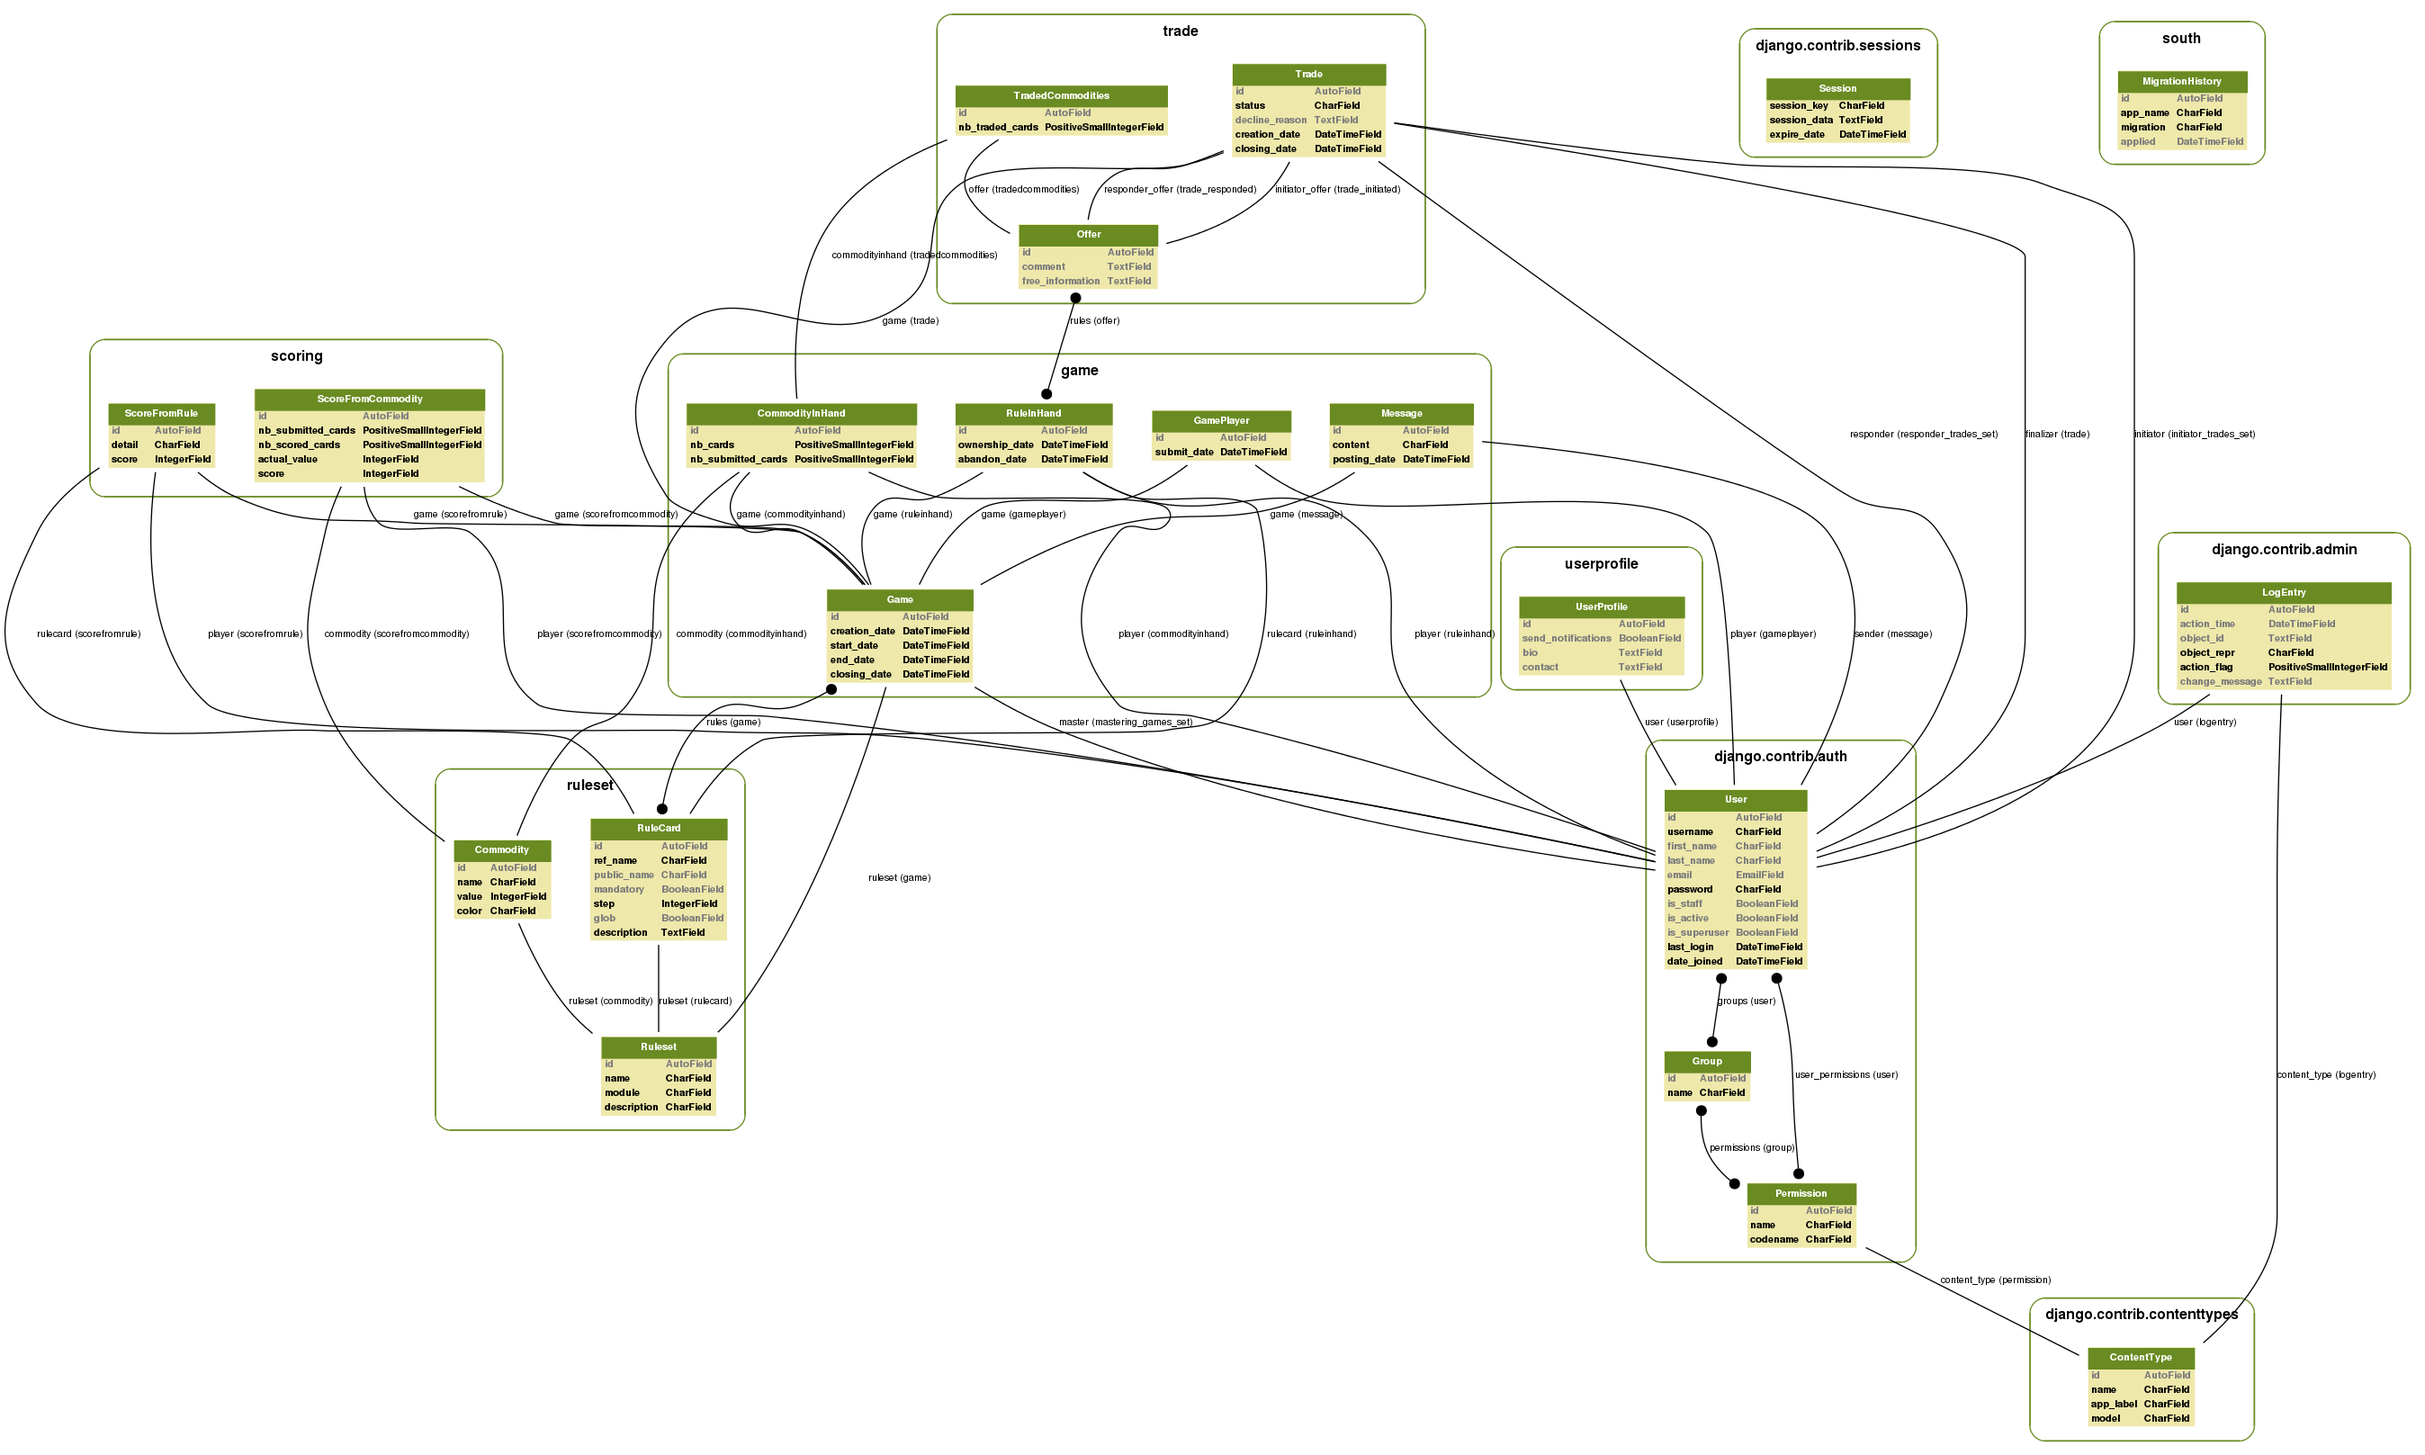
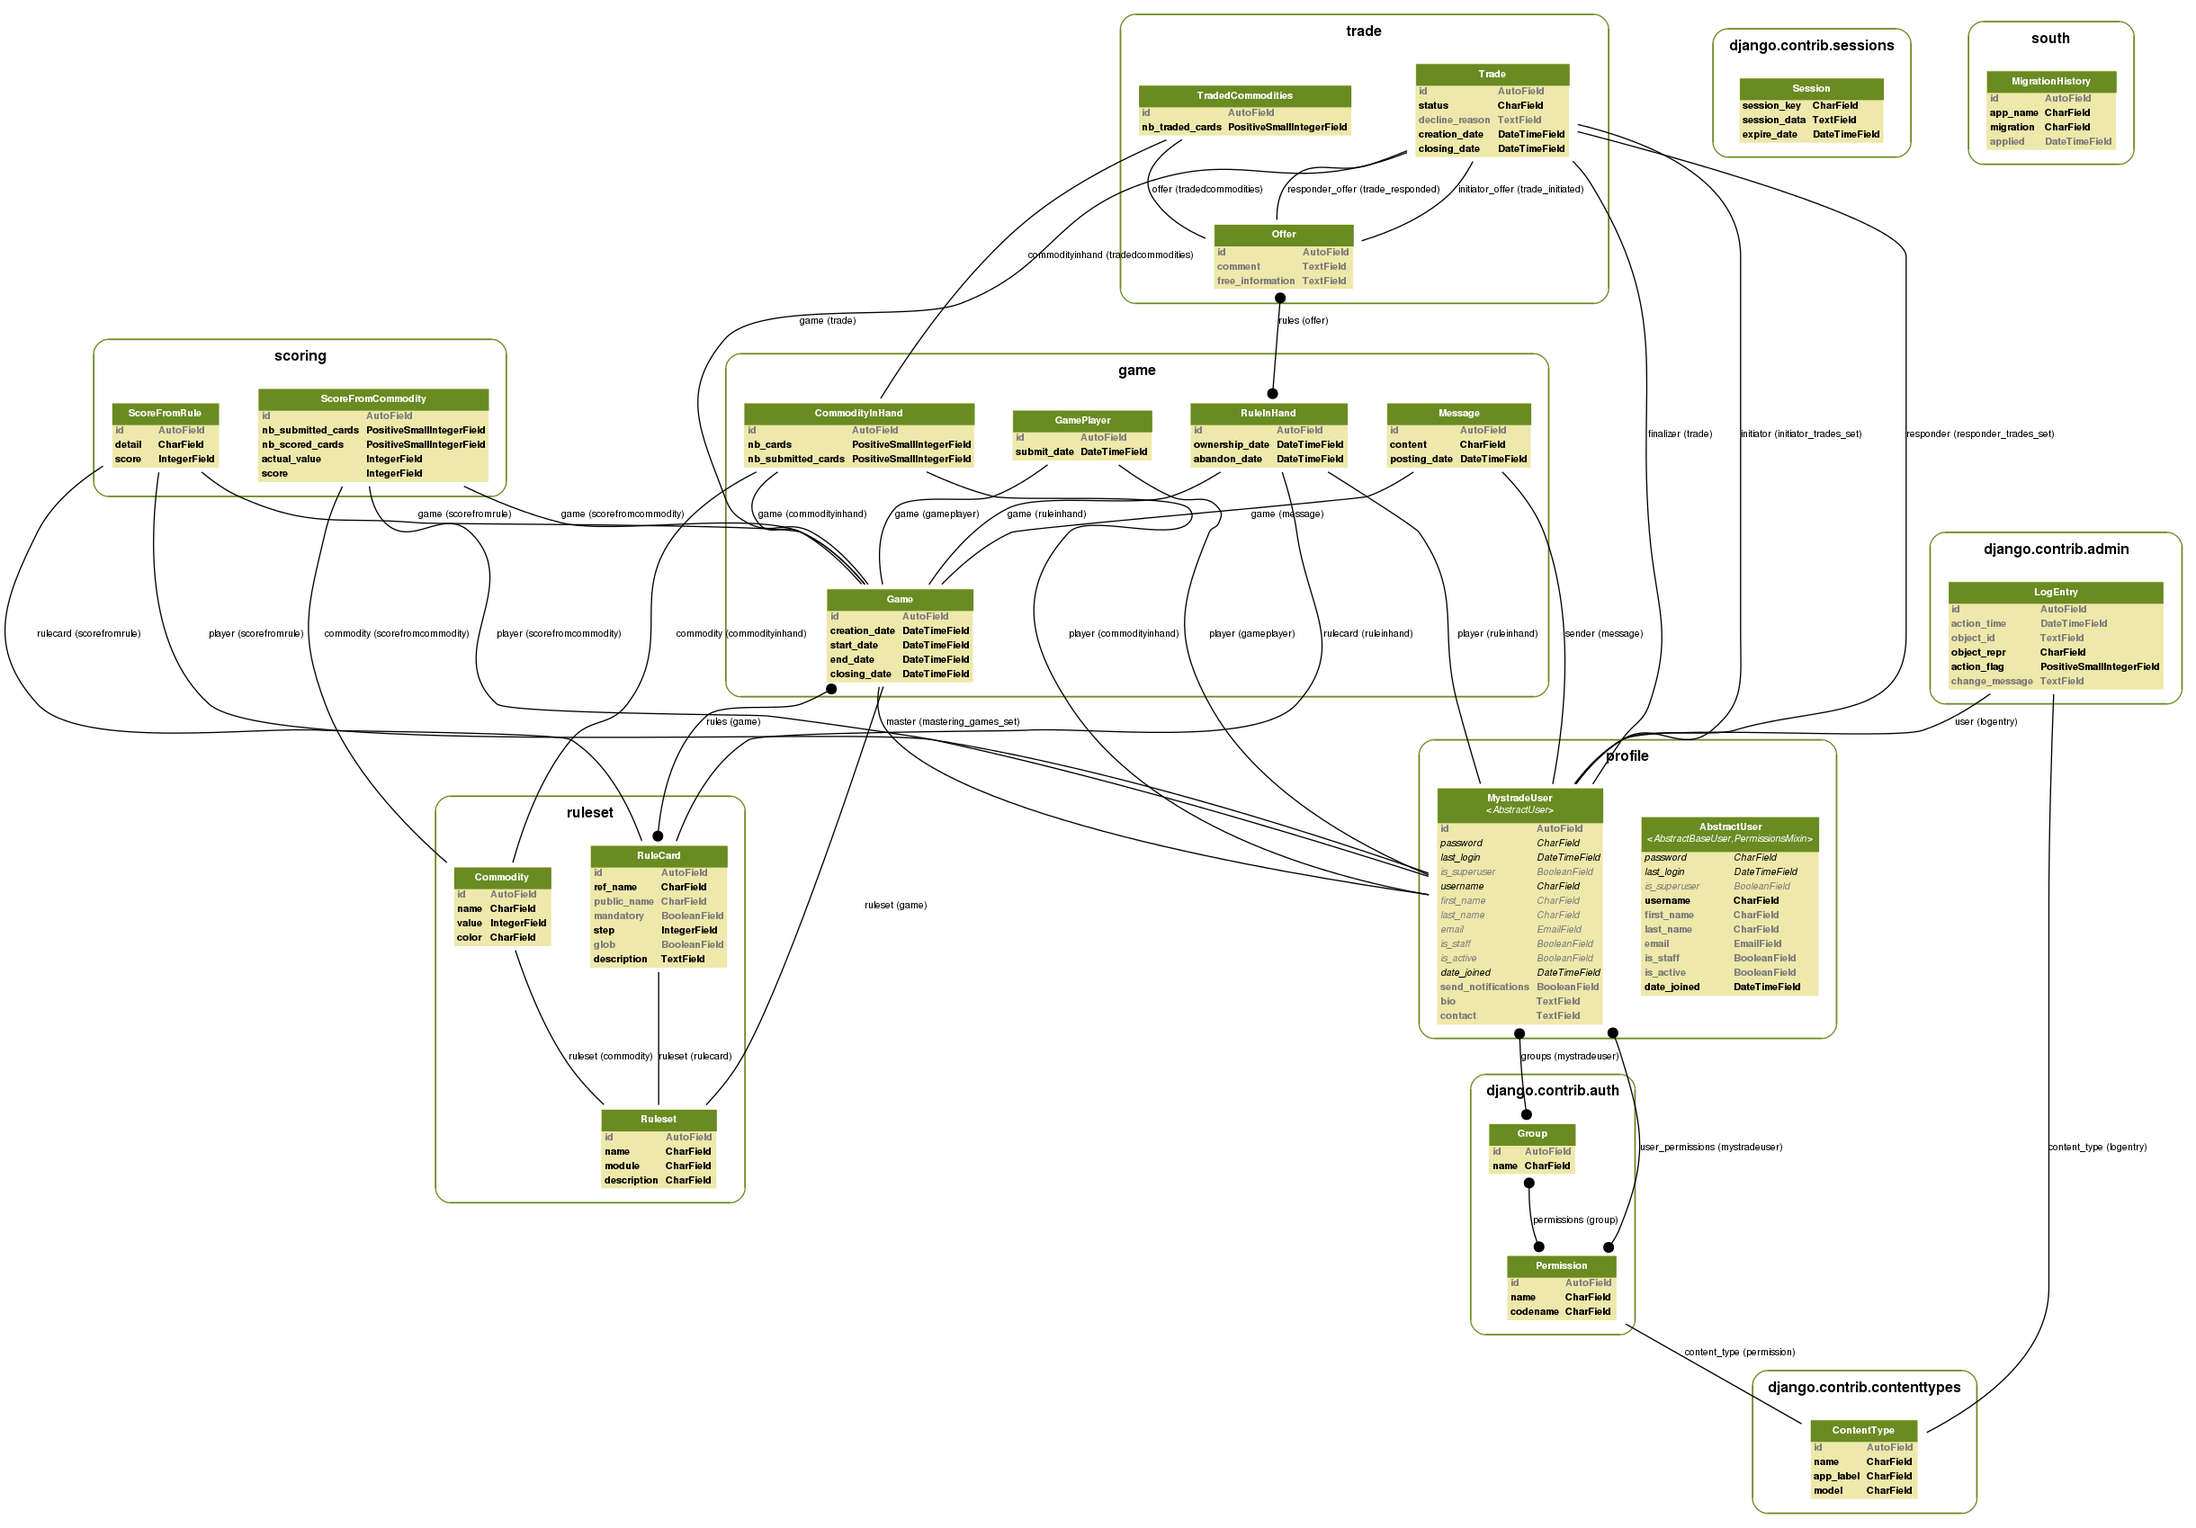
stats: added model

diff --git a/utils/migrations/0001_initial.py b/utils/migrations/0001_initial.py
@@ -1,0 +1,177 @@
+# -*- coding: utf-8 -*-
+import datetime
+from south.db import db
+from south.v2 import SchemaMigration
+from django.db import models
+
+
+class Migration(SchemaMigration):
+
+    depends_on = (("game", "0001_initial"),
+                  ("profile", "0001_initial"),
+                  ("trade", "0001_initial"))
+
+    def forwards(self, orm):
+        # Adding model 'StatsScore'
+        db.create_table(u'utils_statsscore', (
+            (u'id', self.gf('django.db.models.fields.AutoField')(primary_key=True)),
+            ('game', self.gf('django.db.models.fields.related.ForeignKey')(to=orm['game.Game'])),
+            ('player', self.gf('django.db.models.fields.related.ForeignKey')(to=orm['profile.MystradeUser'])),
+            ('trade', self.gf('django.db.models.fields.related.ForeignKey')(to=orm['trade.Trade'], null=True)),
+            ('dateScore', self.gf('django.db.models.fields.DateTimeField')(default=datetime.datetime.now)),
+            ('score', self.gf('django.db.models.fields.IntegerField')()),
+            ('random', self.gf('django.db.models.fields.BooleanField')(default=False)),
+        ))
+        db.send_create_signal(u'utils', ['StatsScore'])
+
+
+    def backwards(self, orm):
+        # Deleting model 'StatsScore'
+        db.delete_table(u'utils_statsscore')
+
+
+    models = {
+        u'auth.group': {
+            'Meta': {'object_name': 'Group'},
+            u'id': ('django.db.models.fields.AutoField', [], {'primary_key': 'True'}),
+            'name': ('django.db.models.fields.CharField', [], {'unique': 'True', 'max_length': '80'}),
+            'permissions': ('django.db.models.fields.related.ManyToManyField', [], {'to': u"orm['auth.Permission']", 'symmetrical': 'False', 'blank': 'True'})
+        },
+        u'auth.permission': {
+            'Meta': {'ordering': "(u'content_type__app_label', u'content_type__model', u'codename')", 'unique_together': "((u'content_type', u'codename'),)", 'object_name': 'Permission'},
+            'codename': ('django.db.models.fields.CharField', [], {'max_length': '100'}),
+            'content_type': ('django.db.models.fields.related.ForeignKey', [], {'to': u"orm['contenttypes.ContentType']"}),
+            u'id': ('django.db.models.fields.AutoField', [], {'primary_key': 'True'}),
+            'name': ('django.db.models.fields.CharField', [], {'max_length': '50'})
+        },
+        u'contenttypes.contenttype': {
+            'Meta': {'ordering': "('name',)", 'unique_together': "(('app_label', 'model'),)", 'object_name': 'ContentType', 'db_table': "'django_content_type'"},
+            'app_label': ('django.db.models.fields.CharField', [], {'max_length': '100'}),
+            u'id': ('django.db.models.fields.AutoField', [], {'primary_key': 'True'}),
+            'model': ('django.db.models.fields.CharField', [], {'max_length': '100'}),
+            'name': ('django.db.models.fields.CharField', [], {'max_length': '100'})
+        },
+        u'game.commodityinhand': {
+            'Meta': {'object_name': 'CommodityInHand'},
+            'commodity': ('django.db.models.fields.related.ForeignKey', [], {'to': u"orm['ruleset.Commodity']"}),
+            'game': ('django.db.models.fields.related.ForeignKey', [], {'to': u"orm['game.Game']"}),
+            u'id': ('django.db.models.fields.AutoField', [], {'primary_key': 'True'}),
+            'nb_cards': ('django.db.models.fields.PositiveSmallIntegerField', [], {'default': '0'}),
+            'nb_submitted_cards': ('django.db.models.fields.PositiveSmallIntegerField', [], {'null': 'True'}),
+            'player': ('django.db.models.fields.related.ForeignKey', [], {'to': u"orm['profile.MystradeUser']"})
+        },
+        u'game.game': {
+            'Meta': {'object_name': 'Game'},
+            'closing_date': ('django.db.models.fields.DateTimeField', [], {'null': 'True'}),
+            'creation_date': ('django.db.models.fields.DateTimeField', [], {'default': 'datetime.datetime.now'}),
+            'end_date': ('django.db.models.fields.DateTimeField', [], {}),
+            u'id': ('django.db.models.fields.AutoField', [], {'primary_key': 'True'}),
+            'master': ('django.db.models.fields.related.ForeignKey', [], {'related_name': "'mastering_games_set'", 'to': u"orm['profile.MystradeUser']"}),
+            'players': ('django.db.models.fields.related.ManyToManyField', [], {'related_name': "'playing_games_set'", 'symmetrical': 'False', 'through': u"orm['game.GamePlayer']", 'to': u"orm['profile.MystradeUser']"}),
+            'rules': ('django.db.models.fields.related.ManyToManyField', [], {'to': u"orm['ruleset.RuleCard']", 'symmetrical': 'False'}),
+            'ruleset': ('django.db.models.fields.related.ForeignKey', [], {'to': u"orm['ruleset.Ruleset']"}),
+            'start_date': ('django.db.models.fields.DateTimeField', [], {'default': 'datetime.datetime.now'})
+        },
+        u'game.gameplayer': {
+            'Meta': {'object_name': 'GamePlayer'},
+            'game': ('django.db.models.fields.related.ForeignKey', [], {'to': u"orm['game.Game']"}),
+            u'id': ('django.db.models.fields.AutoField', [], {'primary_key': 'True'}),
+            'player': ('django.db.models.fields.related.ForeignKey', [], {'to': u"orm['profile.MystradeUser']"}),
+            'submit_date': ('django.db.models.fields.DateTimeField', [], {'null': 'True'})
+        },
+        u'game.ruleinhand': {
+            'Meta': {'object_name': 'RuleInHand'},
+            'abandon_date': ('django.db.models.fields.DateTimeField', [], {'null': 'True'}),
+            'game': ('django.db.models.fields.related.ForeignKey', [], {'to': u"orm['game.Game']"}),
+            u'id': ('django.db.models.fields.AutoField', [], {'primary_key': 'True'}),
+            'ownership_date': ('django.db.models.fields.DateTimeField', [], {}),
+            'player': ('django.db.models.fields.related.ForeignKey', [], {'to': u"orm['profile.MystradeUser']"}),
+            'rulecard': ('django.db.models.fields.related.ForeignKey', [], {'to': u"orm['ruleset.RuleCard']"})
+        },
+        u'profile.mystradeuser': {
+            'Meta': {'object_name': 'MystradeUser'},
+            'bio': ('django.db.models.fields.TextField', [], {'blank': 'True'}),
+            'contact': ('django.db.models.fields.TextField', [], {'blank': 'True'}),
+            'date_joined': ('django.db.models.fields.DateTimeField', [], {'default': 'datetime.datetime.now'}),
+            'email': ('django.db.models.fields.EmailField', [], {'max_length': '75', 'blank': 'True'}),
+            'first_name': ('django.db.models.fields.CharField', [], {'max_length': '30', 'blank': 'True'}),
+            'groups': ('django.db.models.fields.related.ManyToManyField', [], {'to': u"orm['auth.Group']", 'symmetrical': 'False', 'blank': 'True'}),
+            u'id': ('django.db.models.fields.AutoField', [], {'primary_key': 'True'}),
+            'is_active': ('django.db.models.fields.BooleanField', [], {'default': 'True'}),
+            'is_staff': ('django.db.models.fields.BooleanField', [], {'default': 'False'}),
+            'is_superuser': ('django.db.models.fields.BooleanField', [], {'default': 'False'}),
+            'last_login': ('django.db.models.fields.DateTimeField', [], {'default': 'datetime.datetime.now'}),
+            'last_name': ('django.db.models.fields.CharField', [], {'max_length': '30', 'blank': 'True'}),
+            'password': ('django.db.models.fields.CharField', [], {'max_length': '128'}),
+            'send_notifications': ('django.db.models.fields.BooleanField', [], {'default': 'False'}),
+            'user_permissions': ('django.db.models.fields.related.ManyToManyField', [], {'to': u"orm['auth.Permission']", 'symmetrical': 'False', 'blank': 'True'}),
+            'username': ('django.db.models.fields.CharField', [], {'unique': 'True', 'max_length': '30'})
+        },
+        u'ruleset.commodity': {
+            'Meta': {'object_name': 'Commodity'},
+            'color': ('django.db.models.fields.CharField', [], {'default': "'white'", 'max_length': '20'}),
+            u'id': ('django.db.models.fields.AutoField', [], {'primary_key': 'True'}),
+            'name': ('django.db.models.fields.CharField', [], {'max_length': '50'}),
+            'ruleset': ('django.db.models.fields.related.ForeignKey', [], {'to': u"orm['ruleset.Ruleset']"}),
+            'value': ('django.db.models.fields.IntegerField', [], {'null': 'True'})
+        },
+        u'ruleset.rulecard': {
+            'Meta': {'object_name': 'RuleCard'},
+            'description': ('django.db.models.fields.TextField', [], {}),
+            'glob': ('django.db.models.fields.BooleanField', [], {'default': 'False', 'db_column': "'global'"}),
+            u'id': ('django.db.models.fields.AutoField', [], {'primary_key': 'True'}),
+            'mandatory': ('django.db.models.fields.BooleanField', [], {'default': 'False'}),
+            'public_name': ('django.db.models.fields.CharField', [], {'max_length': '50', 'blank': 'True'}),
+            'ref_name': ('django.db.models.fields.CharField', [], {'unique': 'True', 'max_length': '20'}),
+            'ruleset': ('django.db.models.fields.related.ForeignKey', [], {'to': u"orm['ruleset.Ruleset']"}),
+            'step': ('django.db.models.fields.IntegerField', [], {'null': 'True'})
+        },
+        u'ruleset.ruleset': {
+            'Meta': {'object_name': 'Ruleset'},
+            'description': ('django.db.models.fields.CharField', [], {'max_length': '510'}),
+            u'id': ('django.db.models.fields.AutoField', [], {'primary_key': 'True'}),
+            'module': ('django.db.models.fields.CharField', [], {'max_length': '20'}),
+            'name': ('django.db.models.fields.CharField', [], {'max_length': '255'})
+        },
+        u'trade.offer': {
+            'Meta': {'object_name': 'Offer'},
+            'comment': ('django.db.models.fields.TextField', [], {'null': 'True', 'blank': 'True'}),
+            'commodities': ('django.db.models.fields.related.ManyToManyField', [], {'to': u"orm['game.CommodityInHand']", 'through': u"orm['trade.TradedCommodities']", 'symmetrical': 'False'}),
+            'free_information': ('django.db.models.fields.TextField', [], {'null': 'True', 'blank': 'True'}),
+            u'id': ('django.db.models.fields.AutoField', [], {'primary_key': 'True'}),
+            'rules': ('django.db.models.fields.related.ManyToManyField', [], {'to': u"orm['game.RuleInHand']", 'symmetrical': 'False'})
+        },
+        u'trade.trade': {
+            'Meta': {'object_name': 'Trade'},
+            'closing_date': ('django.db.models.fields.DateTimeField', [], {'null': 'True'}),
+            'creation_date': ('django.db.models.fields.DateTimeField', [], {'default': 'datetime.datetime.now'}),
+            'decline_reason': ('django.db.models.fields.TextField', [], {'null': 'True', 'blank': 'True'}),
+            'finalizer': ('django.db.models.fields.related.ForeignKey', [], {'to': u"orm['profile.MystradeUser']", 'null': 'True'}),
+            'game': ('django.db.models.fields.related.ForeignKey', [], {'to': u"orm['game.Game']"}),
+            u'id': ('django.db.models.fields.AutoField', [], {'primary_key': 'True'}),
+            'initiator': ('django.db.models.fields.related.ForeignKey', [], {'related_name': "'initiator_trades_set'", 'to': u"orm['profile.MystradeUser']"}),
+            'initiator_offer': ('django.db.models.fields.related.OneToOneField', [], {'related_name': "'trade_initiated'", 'unique': 'True', 'to': u"orm['trade.Offer']"}),
+            'responder': ('django.db.models.fields.related.ForeignKey', [], {'related_name': "'responder_trades_set'", 'to': u"orm['profile.MystradeUser']"}),
+            'responder_offer': ('django.db.models.fields.related.OneToOneField', [], {'related_name': "'trade_responded'", 'unique': 'True', 'null': 'True', 'to': u"orm['trade.Offer']"}),
+            'status': ('django.db.models.fields.CharField', [], {'default': "'INITIATED'", 'max_length': '15'})
+        },
+        u'trade.tradedcommodities': {
+            'Meta': {'object_name': 'TradedCommodities'},
+            'commodityinhand': ('django.db.models.fields.related.ForeignKey', [], {'to': u"orm['game.CommodityInHand']"}),
+            u'id': ('django.db.models.fields.AutoField', [], {'primary_key': 'True'}),
+            'nb_traded_cards': ('django.db.models.fields.PositiveSmallIntegerField', [], {'default': '0'}),
+            'offer': ('django.db.models.fields.related.ForeignKey', [], {'to': u"orm['trade.Offer']"})
+        },
+        u'utils.statsscore': {
+            'Meta': {'object_name': 'StatsScore'},
+            'dateScore': ('django.db.models.fields.DateTimeField', [], {'default': 'datetime.datetime.now'}),
+            'game': ('django.db.models.fields.related.ForeignKey', [], {'to': u"orm['game.Game']"}),
+            u'id': ('django.db.models.fields.AutoField', [], {'primary_key': 'True'}),
+            'player': ('django.db.models.fields.related.ForeignKey', [], {'to': u"orm['profile.MystradeUser']"}),
+            'random': ('django.db.models.fields.BooleanField', [], {'default': 'False'}),
+            'score': ('django.db.models.fields.IntegerField', [], {}),
+            'trade': ('django.db.models.fields.related.ForeignKey', [], {'to': u"orm['trade.Trade']", 'null': 'True'})
+        }
+    }
+
+    complete_apps = ['utils']

diff --git a/utils/models.py b/utils/models.py
@@ -1,1 +1,16 @@
-''' dummy required by django '''
+from django.db import models
+from django.utils.timezone import now
+from game.models import Game
+from mystrade import settings
+from trade.models import Trade
+
+class StatsScore(models.Model):
+    game = models.ForeignKey(Game)
+    player = models.ForeignKey(settings.AUTH_USER_MODEL)
+    trade = models.ForeignKey(Trade, null = True) # after which completed trade this stat was taken, if not null
+
+    dateScore = models.DateTimeField(default = now)
+
+    score = models.IntegerField()
+
+    random = models.BooleanField(default = False)
